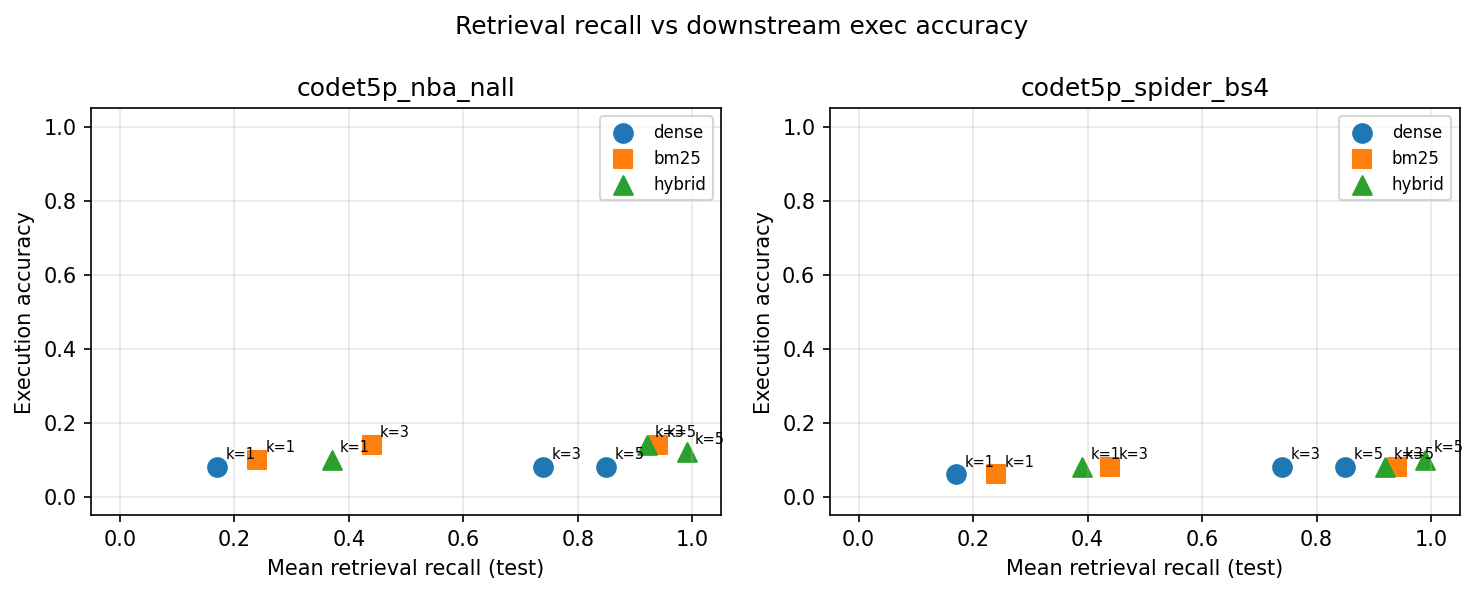
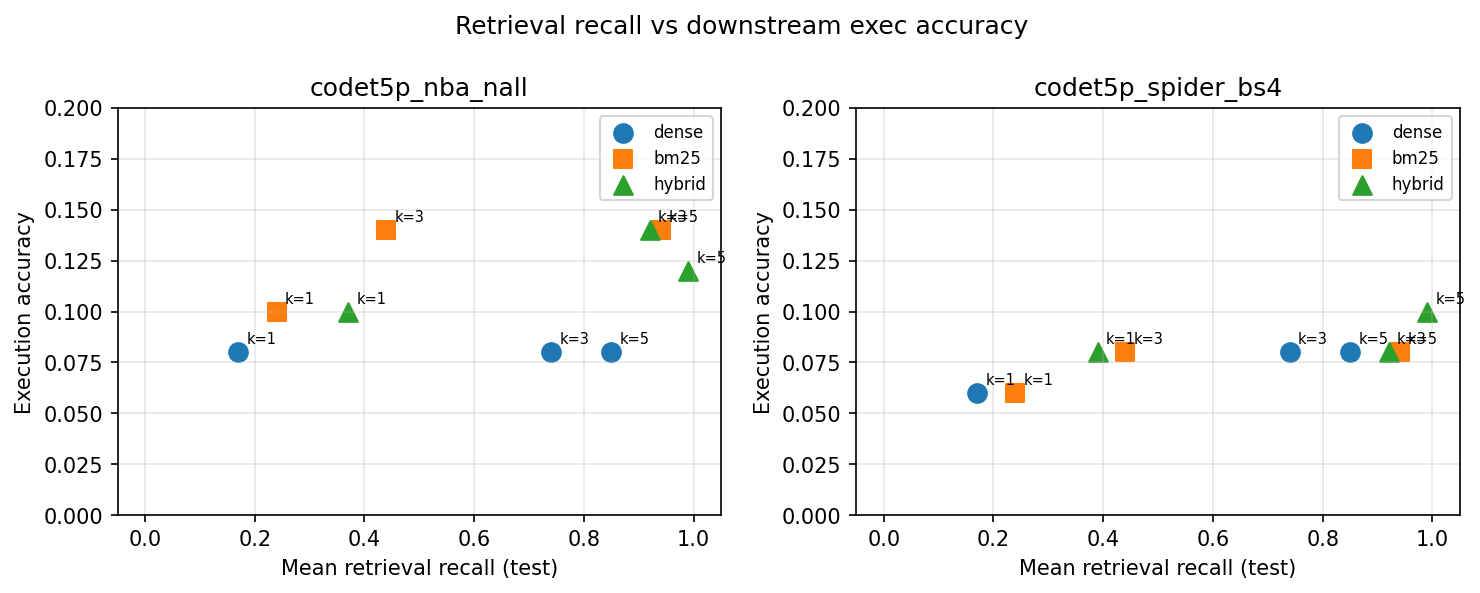
Update RAG recall vs execution accuracy figures and adjust y-axis limits in plotting script for improved clarity.

diff --git a/scripts/plot_rag_ablation.py b/scripts/plot_rag_ablation.py
@@ -69,7 +69,7 @@ def plot_recall_vs_exec(rows: list[dict], out_base: Path) -> None:
         ax.set_ylabel("Execution accuracy")
         ax.set_title(tag)
         ax.set_xlim(-0.05, 1.05)
-        ax.set_ylim(-0.05, 1.05)
+        ax.set_ylim(0.0, 0.2)
         ax.legend(fontsize=8)
         ax.grid(True, alpha=0.3)
     fig.suptitle("Retrieval recall vs downstream exec accuracy")